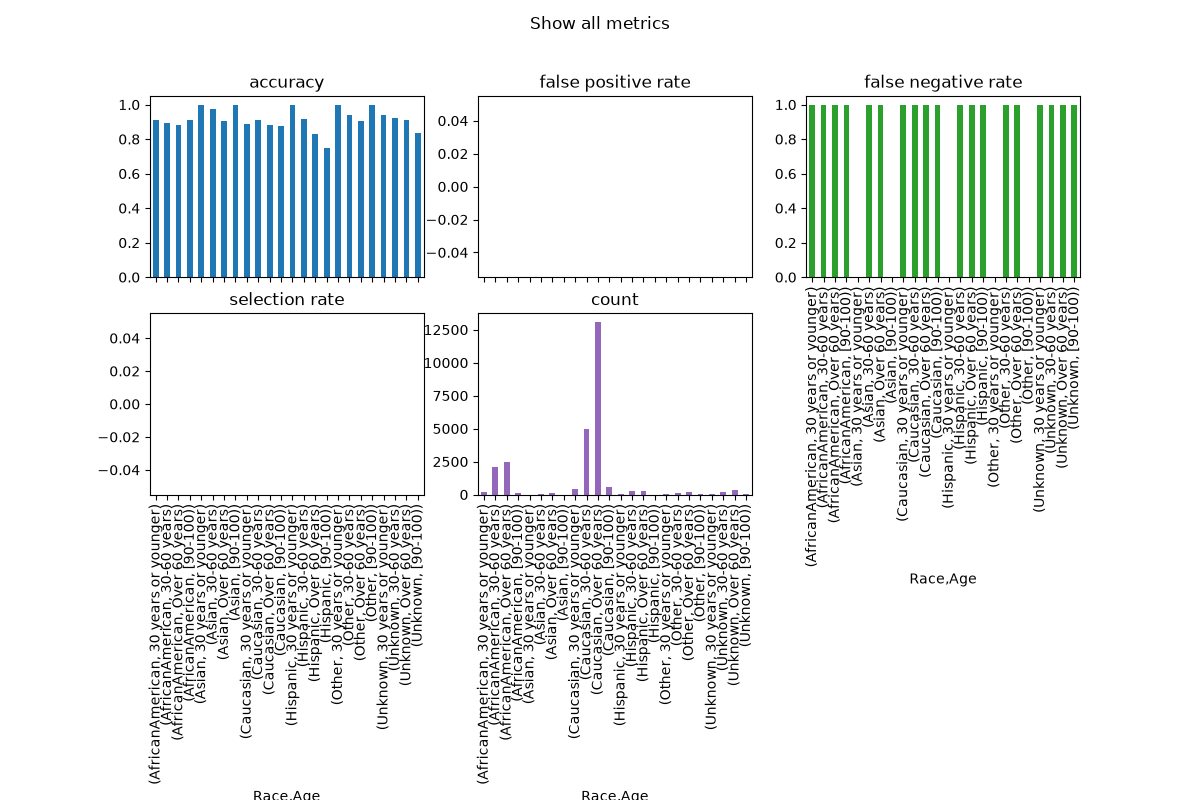
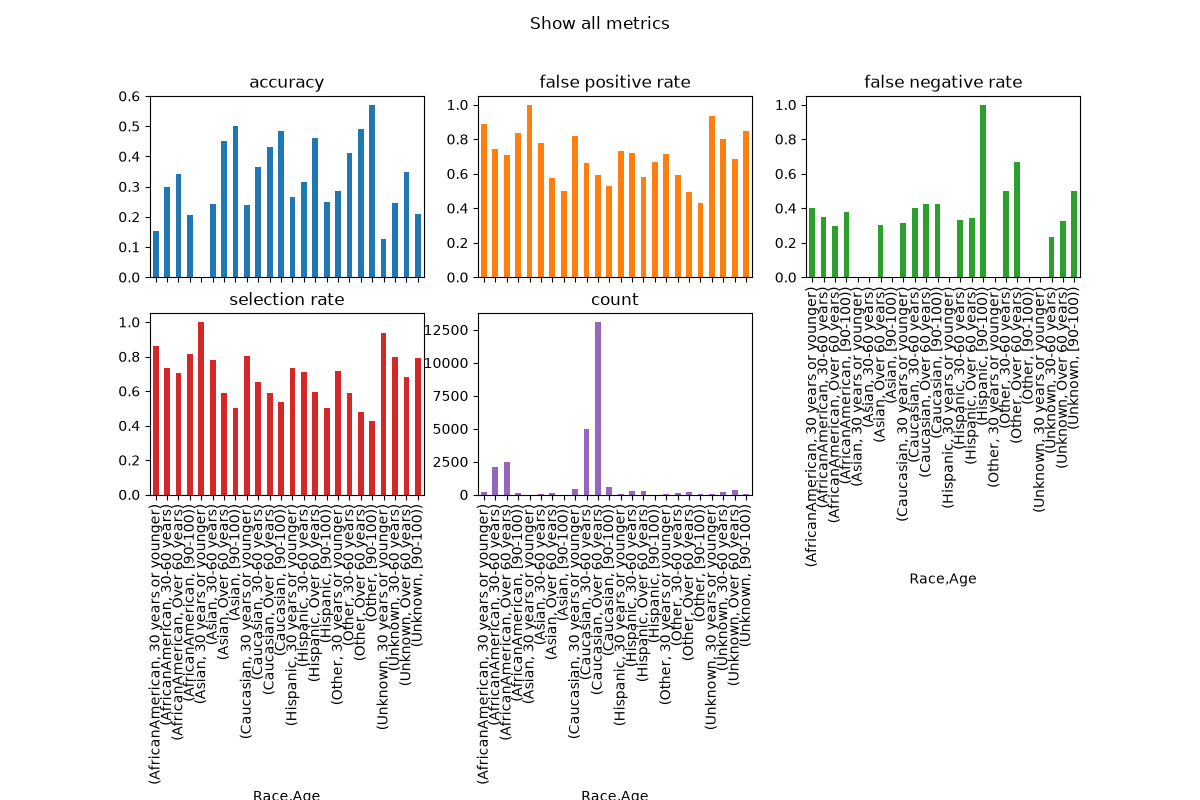
Making the non-threshold evaluate work

Changed region(s): [[0.0925, 0.125, 0.925, 0.3438], [0.0925, 0.4062, 0.37, 0.625]]

diff --git a/src/utils.py b/src/utils.py
@@ -39,12 +39,15 @@ def feature_analysis(feature, y, str_name:str):
     print(f"ratio of positives per {str_name}: ")
     print(positive_ratio)
 
-def evaluate_model(classifier, X_test, y_test, sensitive_data):
+def evaluate_model(classifier, X_test, y_test, sensitive_data, threshold=False):
     # Make the test predictions and evaluate the model using the MetricFrame
-    # y_pred = classifier.predict_proba(X_test)[:, 1] >= 0.1
-    y_pred = classifier.predict(
-        X_test, sensitive_features=sensitive_data["Race"], random_state=SEED
-    )
+    if threshold:    
+        y_pred = classifier.predict(
+            X_test, sensitive_features=sensitive_data["Race"], random_state=SEED
+        )
+    else:
+        y_pred = classifier.predict_proba(X_test)[:, 1] >= 0.1
+
     racemf = MetricFrame(
         metrics={
             "balanced_accuracy": balanced_accuracy_score,

diff --git a/src/main.py b/src/main.py
@@ -89,7 +89,7 @@ def main():
     )
 
     model, threshold_optimizer = train_model(X_train, y_train, race_train, THRESHOLD)
-    evaluate_model(model, X_test, y_test, sensitive_data)
+    evaluate_model(model, X_test, y_test, sensitive_data, THRESHOLD)
     if threshold_optimizer:    
         post.plot_threshold_optimizer(threshold_optimizer)
 
